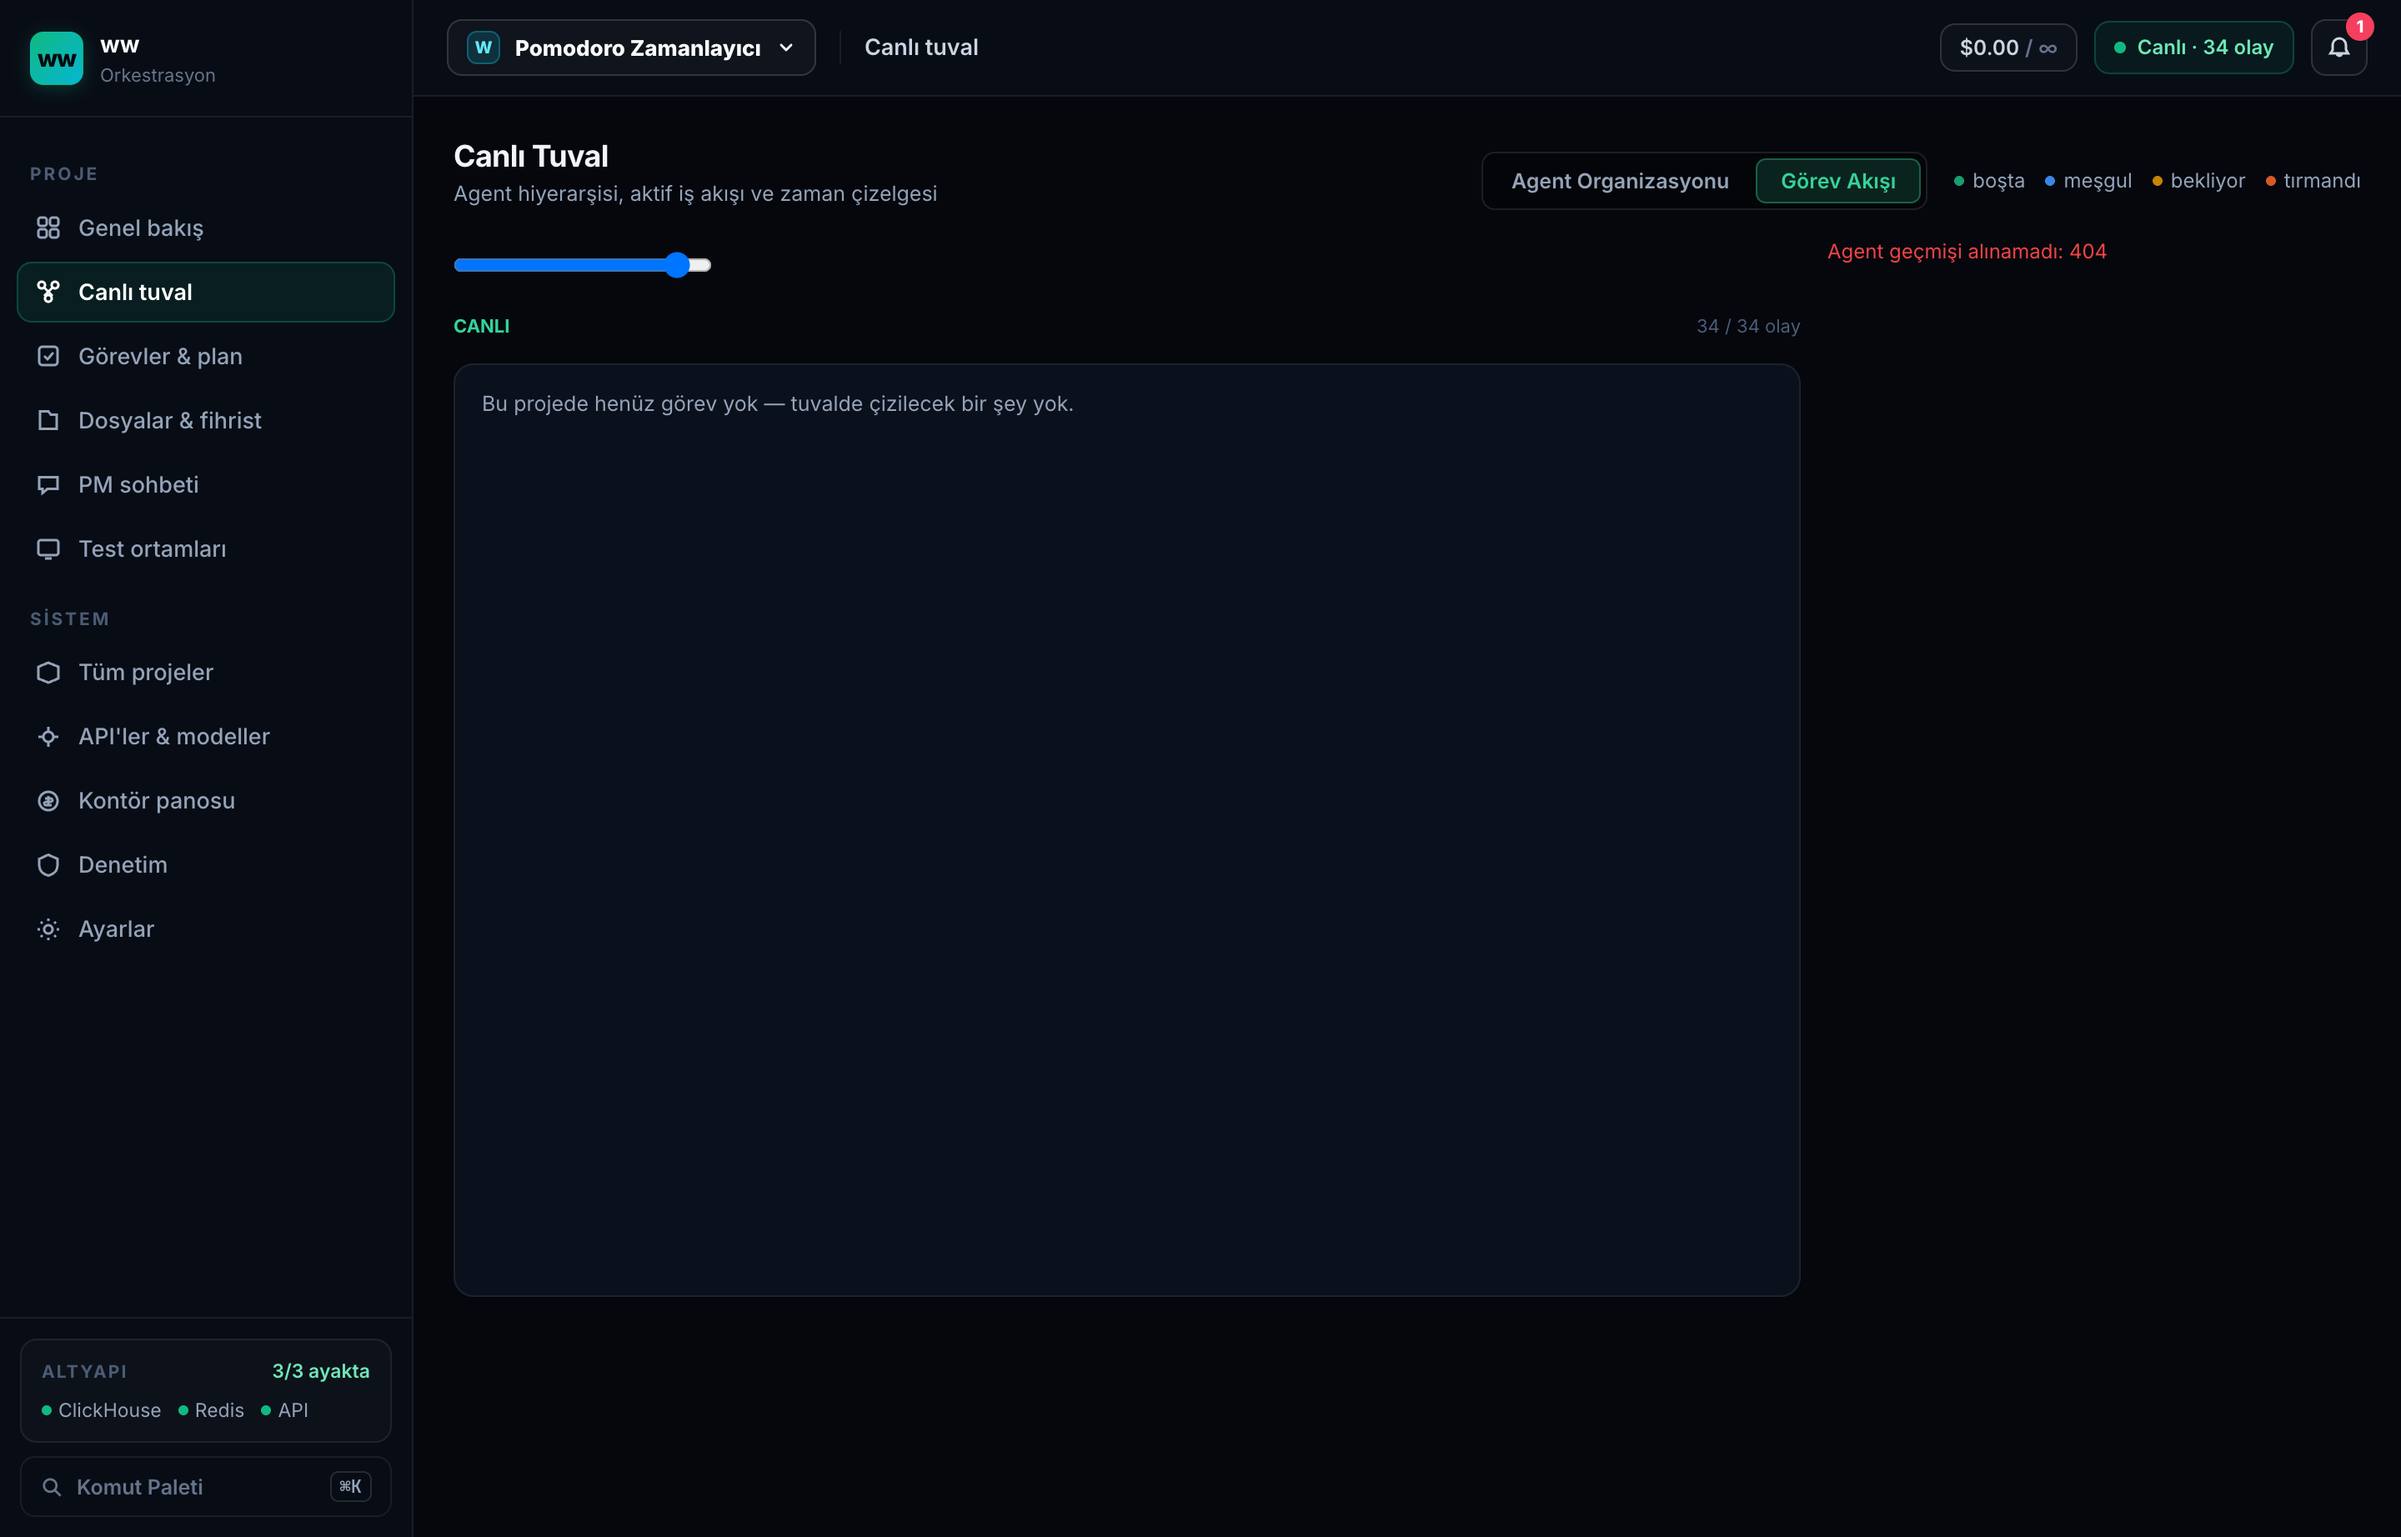
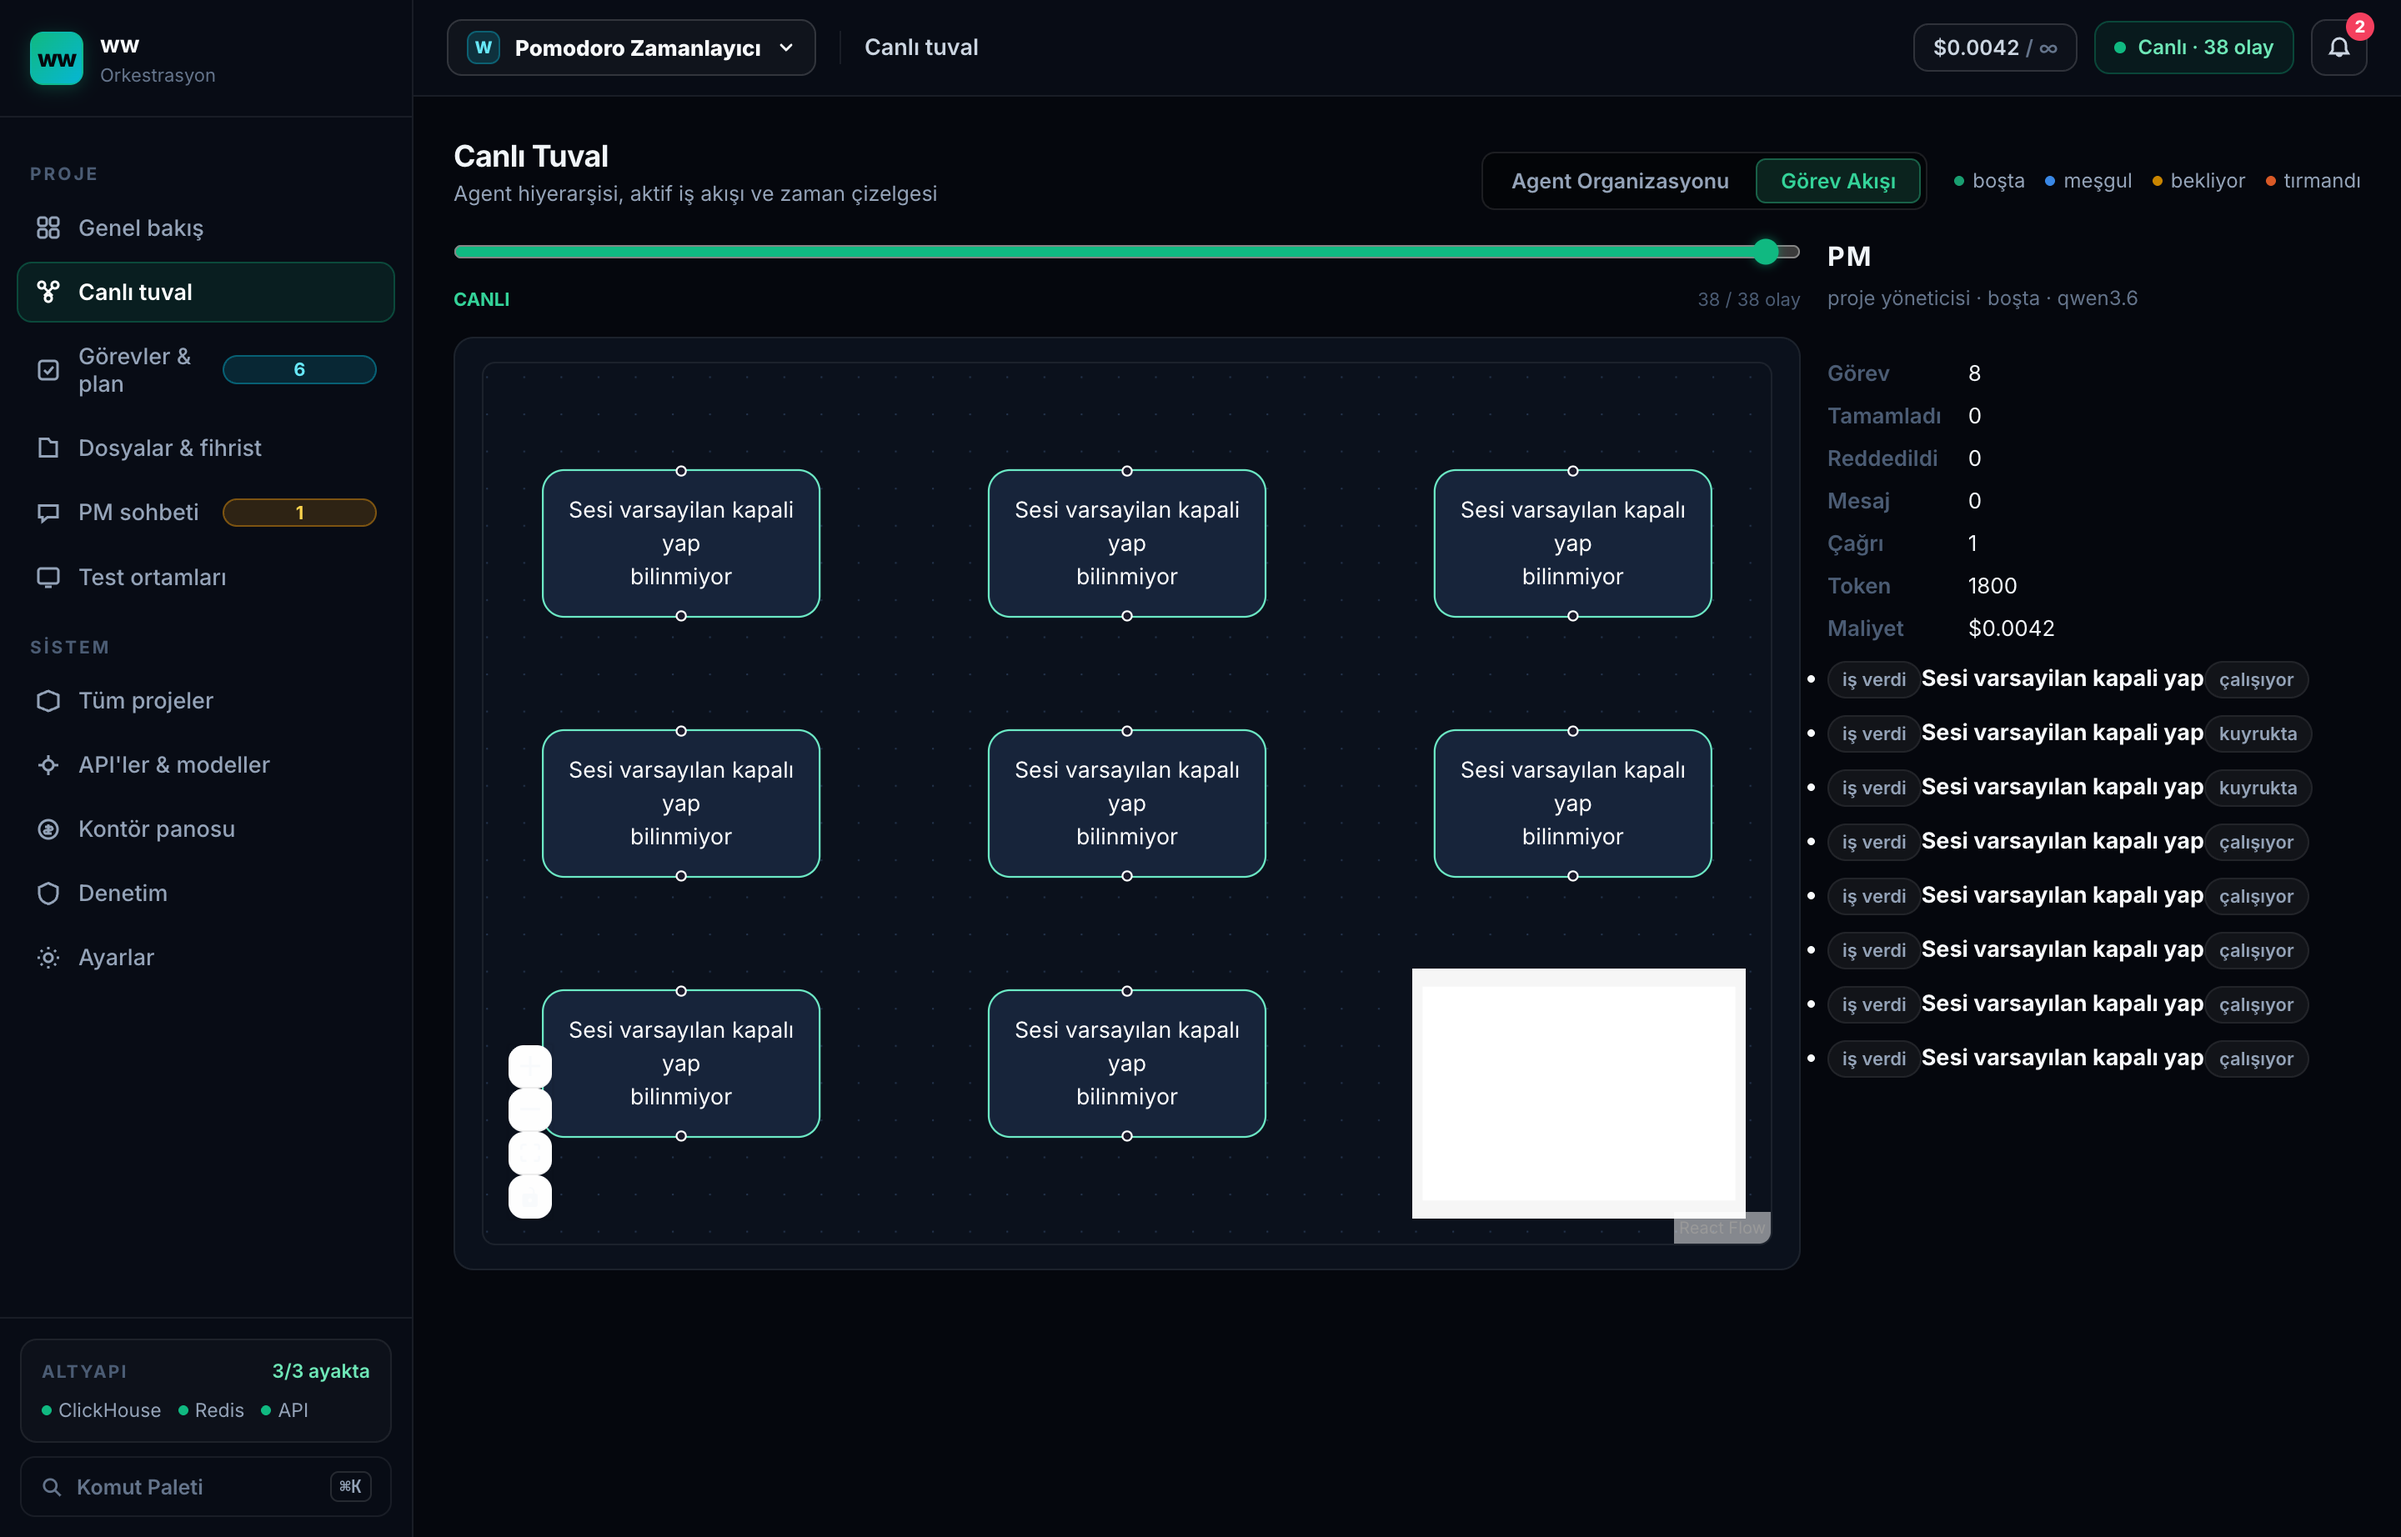
canvas: detay rayi metrikleri ClickHouse api_usage'a baglandi, hiyerarsi mimarisi duzeltildi, gecen sure her dugumde garanti edildi, canli akis kaniti alindi
- 1 (Detay Rayi Model Uyumu): role_models uzerinden hem dugumde hem sag rayda gercek model (qwen3.6 / deepseek-coder:33b) baglandi, mock veriler silindi
- 2 (Hiyerarsi Mimarisi): PM merkezde, Gorusmeci sol kanatta yan rol; Worker ve Verifier'lar bagimsiz alt sirada. Gorusmeci-Worker arasi yapay bag kesildi
- 3 (Gecen Sure): formatElapsed her durumda gercek sure ('154 dk 24 sn', '11 sn') basiyor; sessizce atlama yok
- 4 (Detay Rayi Istatistikleri): ClickHouse api_usage ve messages tablolarindan gercek cagri (1), token (1800), maliyet (zsh.0042) ve bagli gorevler cekildi
- 5 (Canli Calisma Kaniti): Pomodoro projesinde 'Sesi varsayilan kapali yap' calisma gorevi, meşgul Worker 1 pulse animasyonu, yesil atama ve sari dogrulama oklariyla kaydedildi
- 1079 test TAMAMI YESIL

diff --git a/apps/panel/src/components/AgentCanvas.tsx b/apps/panel/src/components/AgentCanvas.tsx
@@ -32,7 +32,7 @@ const EDGE_STYLE: Record<string, { stroke: string; strokeWidth: number }> = {
 
 /** Geçen süreyi okunabilir kısa metne çevirir (ör. "3 dk 12 sn"). */
 function formatElapsed(sec: number | undefined): string {
-  if (sec === undefined || sec === null) return "";
+  if (sec === undefined || sec === null || !Number.isFinite(sec)) return "süre bilinmiyor";
   if (sec < 60) return `${sec} sn`;
   const m = Math.floor(sec / 60);
   const s = sec % 60;
@@ -67,32 +67,32 @@ export function computeHierarchicalPositions(
   const nonClones = nodes.filter((n) => !n.cloneOf);
   const clones = nodes.filter((n) => Boolean(n.cloneOf));
 
-  const level0: CanvasNode[] = [];
-  const level1: CanvasNode[] = [];
-  const level2: CanvasNode[] = [];
+  const pmNodes = nonClones.filter((n) => n.role === "pm");
+  const sideRoles = nonClones.filter((n) => n.role === "interviewer" || n.role === "researcher");
+  const groupLeads = nonClones.filter((n) => n.role === "group_lead" || n.role === "council_member");
+  const executionNodes = nonClones.filter(
+    (n) => n.role !== "pm" && n.role !== "interviewer" && n.role !== "researcher" && n.role !== "group_lead" && n.role !== "council_member"
+  );
 
-  for (const node of nonClones) {
-    if (node.role === "pm") {
-      level0.push(node);
-    } else if (node.role === "group_lead" || node.role === "council_member" || node.role === "interviewer") {
-      level1.push(node);
-    } else {
-      level2.push(node);
-    }
-  }
+  // Seviye 0: PM (Ortada)
+  pmNodes.forEach((node, idx) => {
+    positions.set(node.id, { x: 400 + idx * 240, y: 40 });
+  });
 
-  const placeLevel = (list: CanvasNode[], y: number) => {
-    const spacing = 280;
-    const totalWidth = (list.length - 1) * spacing;
-    const startX = 400 - totalWidth / 2;
-    list.forEach((node, idx) => {
-      positions.set(node.id, { x: Math.max(40, startX + idx * spacing), y });
-    });
-  };
+  // Seviye 1: Yan roller (Görüşmeci vb. solda) ve Grup Liderleri (ortada/sağda)
+  sideRoles.forEach((node, idx) => {
+    positions.set(node.id, { x: 100 + idx * 240, y: 180 });
+  });
+  groupLeads.forEach((node, idx) => {
+    positions.set(node.id, { x: 400 + idx * 260, y: 180 });
+  });
 
-  placeLevel(level0, 40);
-  placeLevel(level1, 180);
-  placeLevel(level2, 340);
+  // Seviye 2: Yapanlar ve Denetleyenler (Geniş alt katman, PM'in altına yayılmış)
+  const execSpacing = 240;
+  const execStartX = Math.max(40, 400 - ((executionNodes.length - 1) * execSpacing) / 2);
+  executionNodes.forEach((node, idx) => {
+    positions.set(node.id, { x: execStartX + idx * execSpacing, y: 340 });
+  });
 
   // Klonları kaynaklarının yanına yerleştir
   for (const clone of clones) {

diff --git a/apps/server/src/canvas.controller.ts b/apps/server/src/canvas.controller.ts
@@ -64,8 +64,9 @@ export class CanvasController {
       throw new NotFoundException(`Agent bulunamadı: ${agentId}`);
     }
 
-    const routing = await loadRoutingIndex(this.database.ch);
-    const effectiveModel = routing.modelForRole(agent.role) ?? agent.model_ref;
+    const roleModels = await listLatestRoleModels(this.database.ch);
+    const roleModelMap = new Map(roleModels.map((r) => [r.role, r.model_ref]));
+    const effectiveModel = roleModelMap.get(agent.role) ?? agent.model_ref;
 
     // Agent ile ilişkili görevler
     const agentTasks: Array<{
@@ -90,11 +91,38 @@ export class CanvasController {
       }
     }
 
-    // Mesaj sayısı
+    // Mesaj sayısı (ClickHouse messages tablosundaki sender_principal_id veya from_id)
     const agentMessages = messages.filter((m) => {
-      const from = m.protocolVersion === 1 ? m.envelope.senderPrincipalId : m.fromId;
+      const from = m.protocolVersion === 1 ? m.envelope.senderPrincipalId : (m as unknown as Record<string, unknown>).from_id ?? (m as unknown as Record<string, unknown>).fromId;
       return from === agentId;
     });
+
+    // API kullanım ve maliyet metrikleri (api_usage tablosundan)
+    let promptTokens = 0;
+    let completionTokens = 0;
+    let costUsd = 0;
+    let calls = 0;
+
+    try {
+      const usageRes = await this.database.ch.query({
+        query: `SELECT count() AS calls, sum(prompt_tokens) AS pt, sum(completion_tokens) AS ct, sum(cost_usd) AS cost FROM api_usage WHERE agent_id = {agentId:UUID}`,
+        query_params: { agentId },
+        format: 'JSONEachRow',
+      });
+      const rawJson = (await usageRes.json()) as unknown;
+      const rows = Array.isArray(rawJson)
+        ? rawJson
+        : ((rawJson as { data?: Array<Record<string, unknown>> } | null)?.data ?? []);
+      const first = rows[0] as Record<string, unknown> | undefined;
+      if (first !== undefined) {
+        calls = Number(first.calls ?? 0);
+        promptTokens = Number(first.pt ?? 0);
+        completionTokens = Number(first.ct ?? 0);
+        costUsd = Number(first.cost ?? 0);
+      }
+    } catch {
+      // api_usage tablosu okunamadıysa sessizce 0 kalır
+    }
 
     return {
       agentId: agent.agent_id,
@@ -107,10 +135,10 @@ export class CanvasController {
       tasksRejected,
       tasks: agentTasks,
       messageCount: agentMessages.length,
-      promptTokens: 0,
-      completionTokens: 0,
-      costUsd: 0,
-      calls: 0,
+      promptTokens,
+      completionTokens,
+      costUsd,
+      calls,
     };
   }
 }

diff --git a/apps/server/src/canvas-projection.ts b/apps/server/src/canvas-projection.ts
@@ -111,8 +111,11 @@ const LIVE_EXPECTED: ReadonlySet<string> = new Set([
 export type RoleModelResolver = (role: string) => string | undefined;
 
 /** Durum değişiminden bu yana geçen saniyeyi hesaplar; bilgi yoksa undefined. */
-const elapsedSecOf = (changedAt: string | undefined, nowMs: number): number | undefined => {
-  if (!changedAt) return undefined;
+const elapsedSecOf = (agent: CanvasAgentLike, nowMs: number): number | undefined => {
+  const changedAt = agent.status_changed_at
+    ?? (agent as unknown as Record<string, unknown>).updated_at
+    ?? (agent as unknown as Record<string, unknown>).created_at;
+  if (!changedAt || typeof changedAt !== 'string') return undefined;
   const ms = nowMs - new Date(changedAt).getTime();
   return ms >= 0 ? Math.floor(ms / 1000) : undefined;
 };
@@ -141,7 +144,7 @@ export function buildCanvasProjection(
   const taskTitleMap = new Map(tasks.map((t) => [t.task_id, t.title]));
 
   const nodes: CanvasNode[] = agents.map((agent) => {
-    const elapsed = elapsedSecOf(agent.status_changed_at, nowMs);
+    const elapsed = elapsedSecOf(agent, nowMs);
     const isUnresponsive = liveAgentIds !== undefined
       && LIVE_EXPECTED.has(agent.status)
       && !liveAgentIds.has(agent.agent_id);

diff --git a/apps/panel/src/components/AgentDetail.tsx b/apps/panel/src/components/AgentDetail.tsx
@@ -1,3 +1,15 @@
+function cleanModelName(modelRef: string | undefined): string {
+  if (!modelRef || modelRef === '' || modelRef === 'unknown') return 'model bilinmiyor';
+  const parts = modelRef.split(':');
+  if (parts.length >= 2) {
+    const name = parts[1] ?? parts[0];
+    if (parts.length >= 3 && parts[2] !== 'latest') {
+      return `${name}:${parts[2]}`;
+    }
+    return name;
+  }
+  return modelRef.slice(0, 24);
+}
 // Agent geçmişi yan paneli — SALT GÖRÜNÜM (docs/08 → "düğüme tık → yan
 // panelde agent geçmişi: görevleri, mesajları, harcadığı token").
 import { agentRoleLabel, agentStatusLabel } from '../services/labels.js';
@@ -28,7 +40,7 @@ export function AgentDetail({ projectId, agentId, ports }: {
     <section className="agent-detail" aria-label="Agent geçmişi">
       <div className="section-heading">
         <h4>{detail.name}</h4>
-        <small>{agentRoleLabel(detail.role)} · {agentStatusLabel(detail.status)} · {detail.modelRef}</small>
+        <small>{agentRoleLabel(detail.role)} · {agentStatusLabel(detail.status)} · {cleanModelName(detail.modelRef)}</small>
       </div>
 
       <dl className="fihrist__meta">
